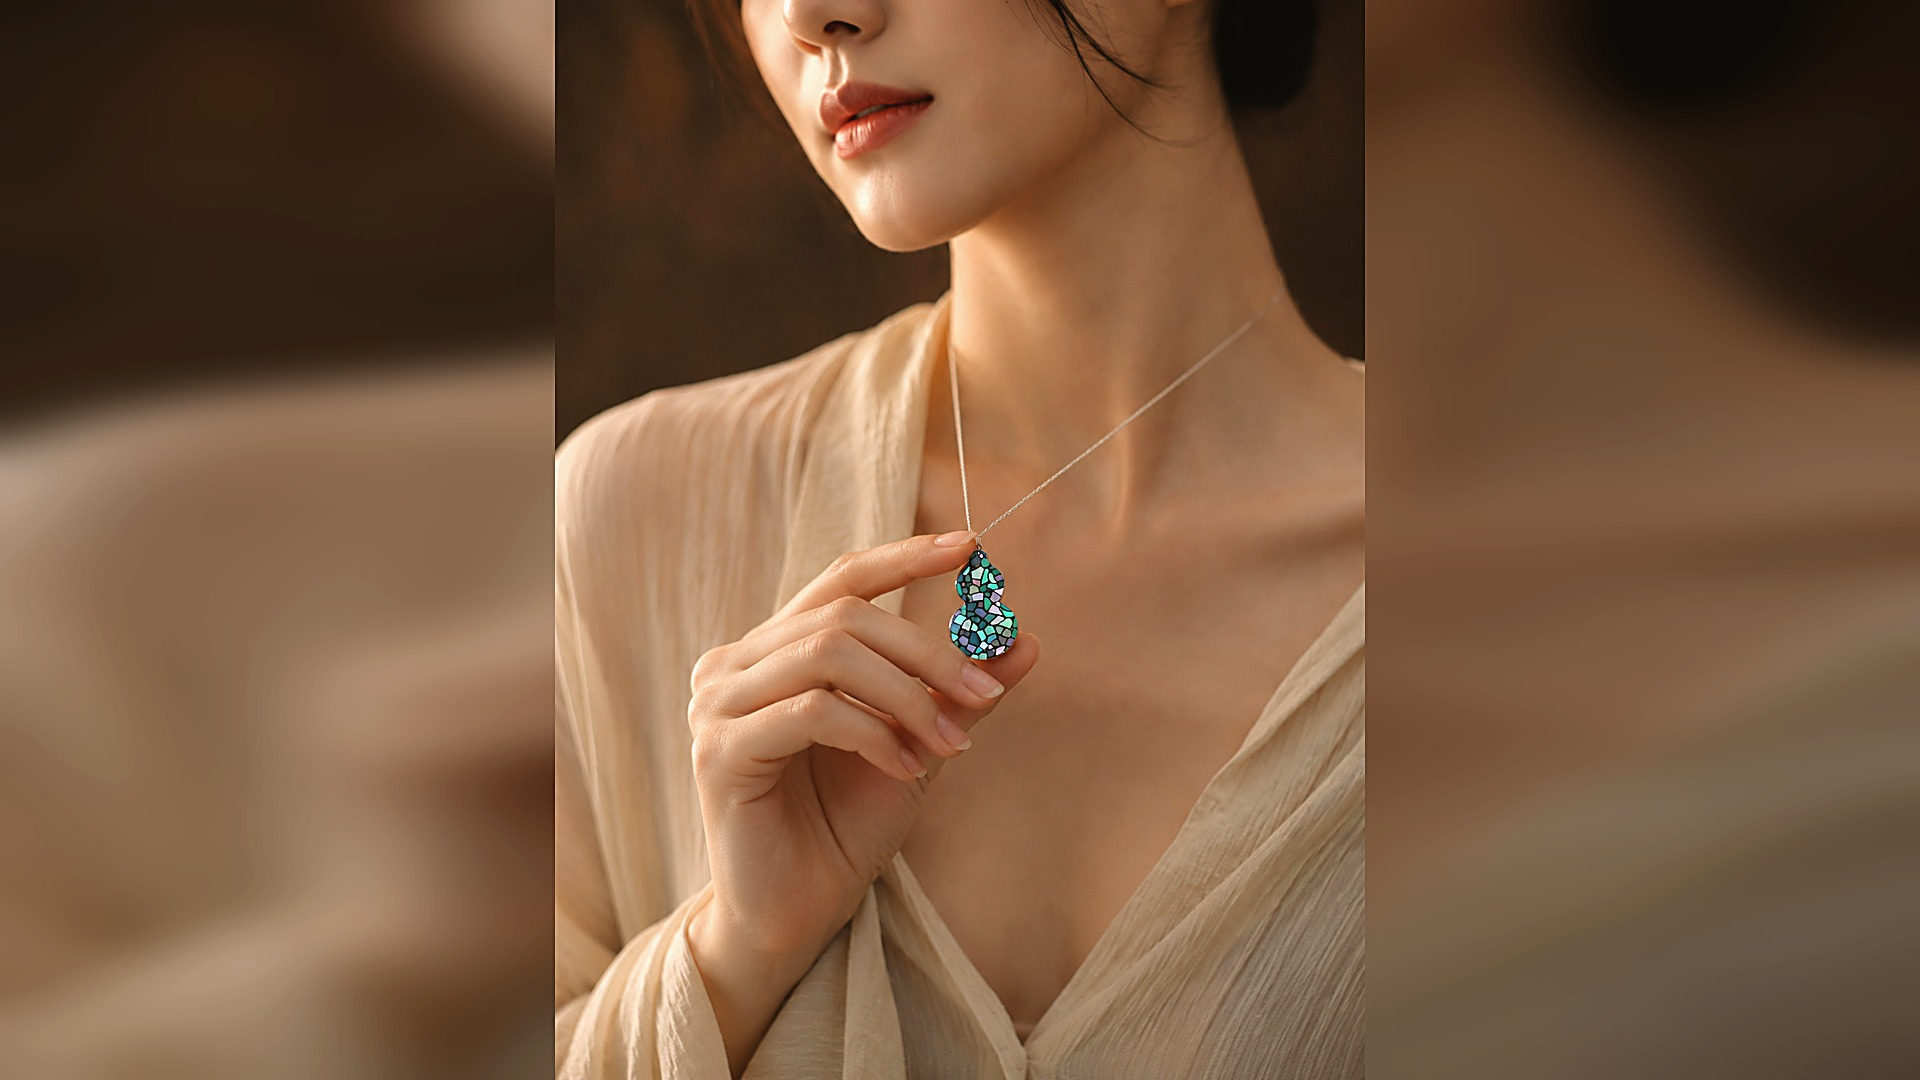
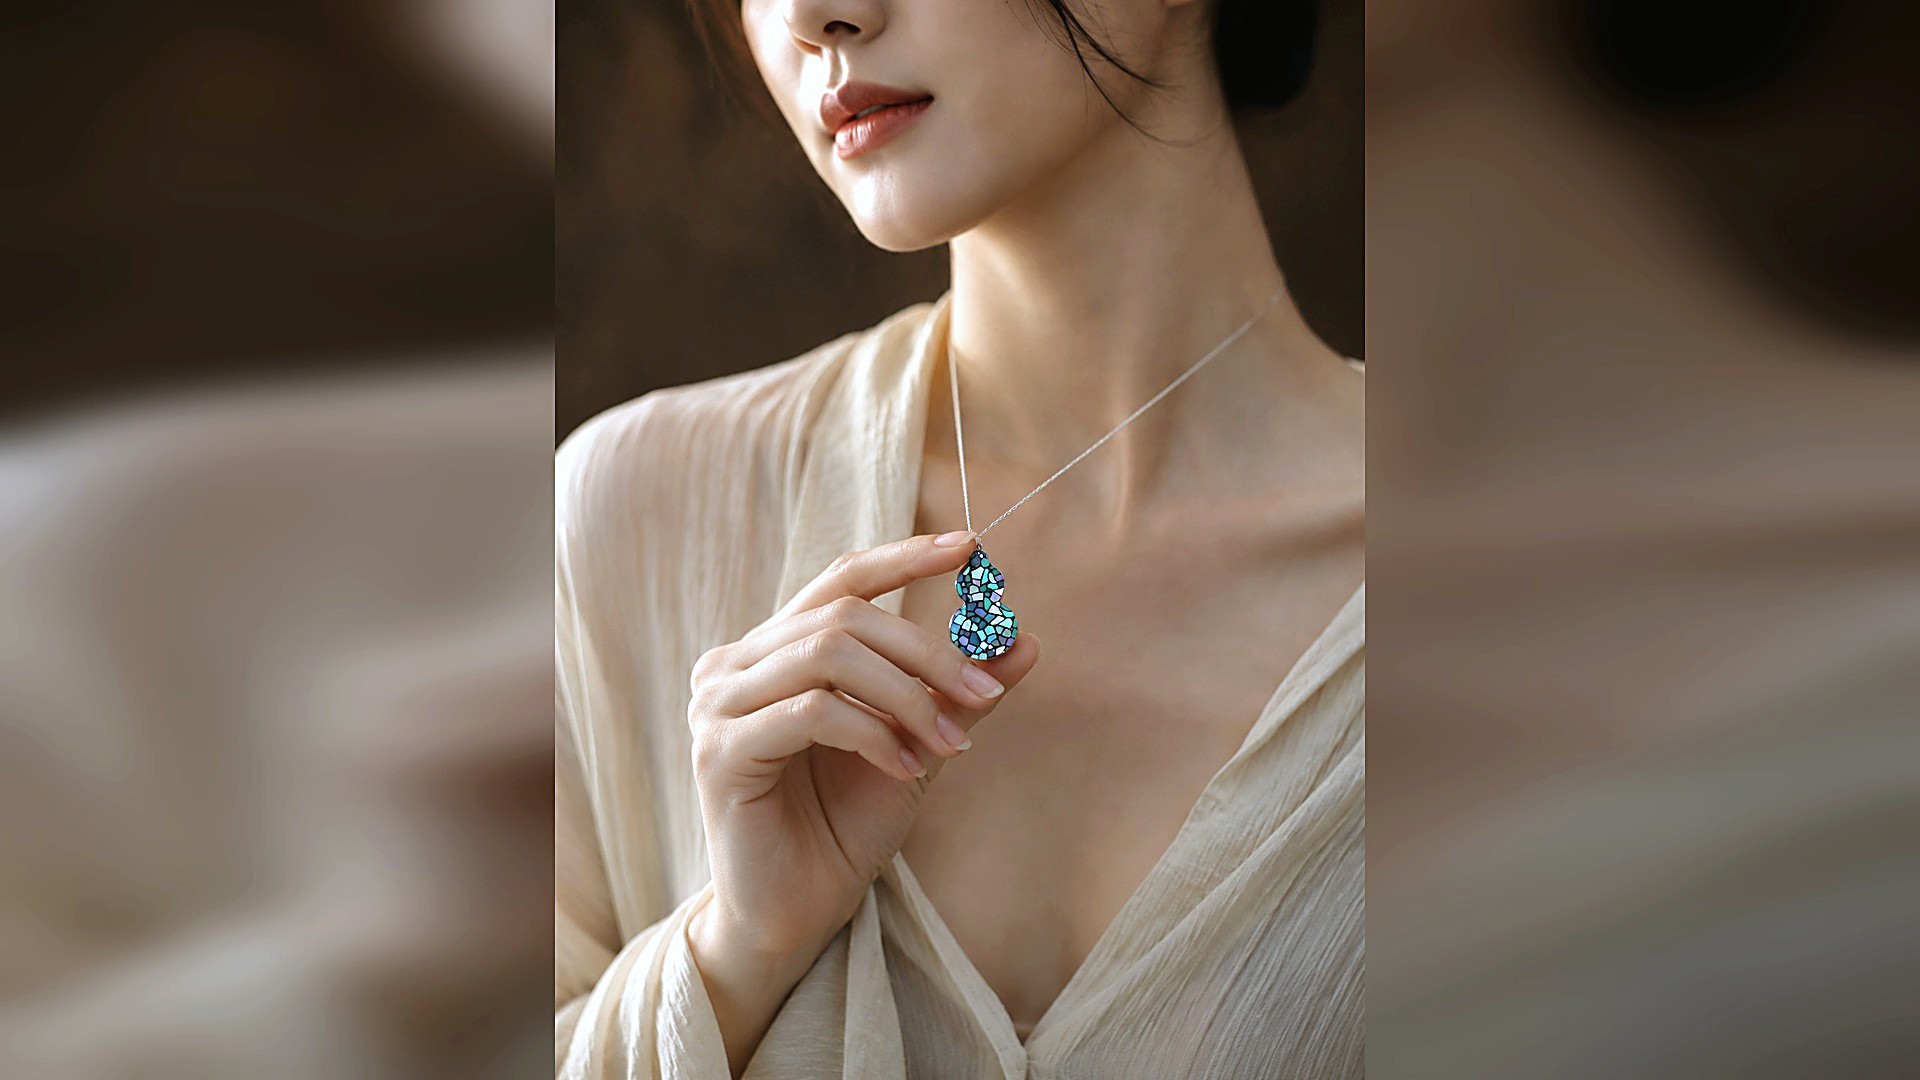
修复品牌轮播首图不显示、统一调色并删除品牌页商务合作板块；首页第一张与正大明第二张轮播互换

diff --git a/brand-zhengdaming.html b/brand-zhengdaming.html
@@ -157,11 +157,11 @@
     <!-- 大图轮播 -->
     <section id="home" class="hero brand-hero">
       <div class="hero-slides">
-        <div class="hero-slide" data-desc="精选秦巴山地原生漆，经脱水、过滤、调色，调制出可髹涂的温润漆液。">
+        <div class="hero-slide active" data-desc="精选秦巴山地原生漆，经脱水、过滤、调色，调制出可髹涂的温润漆液。">
           <img src="images/brands/zd-1.jpg" alt="精制生漆调制">
         </div>
-        <div class="hero-slide" data-desc="以天然大漆髹饰的茶席与茶器，将东方漆艺融入当代茶事空间。">
-          <img src="images/brands/zd-2.jpg" alt="大漆茶席">
+        <div class="hero-slide" data-desc="描金运笔、朱漆映金，一笔一划承古法而见匠心，东方器物美学由此入境。">
+          <img src="images/hero-new-1.jpg" alt="描金漆器">
         </div>
         <div class="hero-slide" data-desc="黑漆为底、百蝶翩跹，描金与螺钿交相辉映，呈现正大明器物之美。">
           <img src="images/brands/zd-3.jpg" alt="百蝶瓜棱漆瓶">
@@ -468,34 +468,6 @@
               <svg viewBox="0 0 24 24" fill="currentColor"><path d="M8 5v14l11-7z"/></svg>
             </button>
             <div class="video-caption">袁端姣纪录片 · 匠心传承</div>
-          </div>
-        </div>
-      </div>
-    </section>
-
-    <!-- 商务合作 -->
-    <section class="section section-dark" id="coop">
-      <div class="container">
-        <div class="section-header">
-          <span class="section-label">Business Cooperation</span>
-          <h2 class="section-title">商务合作</h2>
-          <p class="section-desc">与正大明一起，把东方器物的庄重送给最重要的时刻。</p>
-        </div>
-        <div class="coop-grid">
-          <div class="coop-card">
-            <h3>高端礼赠定制</h3>
-            <p>一器一档、落款刻字，政务接待与外事礼赠的庄重之选。</p>
-            <p style="margin-top:14px;"><a href="cooperation.html" class="link">了解合作 →</a></p>
-          </div>
-          <div class="coop-card">
-            <h3>品牌联名开发</h3>
-            <p>iF 设计奖团队操刀、非遗工艺背书，支持色号定制与联名款独家供应。</p>
-            <p style="margin-top:14px;"><a href="cooperation.html" class="link">了解合作 →</a></p>
-          </div>
-          <div class="coop-card">
-            <h3>渠道与经销</h3>
-            <p>正大明产品全渠道代理招募，共享大漆高端市场增长。</p>
-            <p style="margin-top:14px;"><a href="cooperation.html" class="link">了解合作 →</a></p>
           </div>
         </div>
       </div>

diff --git a/brand-longtou.html b/brand-longtou.html
@@ -157,7 +157,7 @@
     <!-- 大图轮播 -->
     <section id="home" class="hero brand-hero">
       <div class="hero-slides">
-        <div class="hero-slide" data-desc="袁辉志、袁端姣与团队在秦巴漆苗基地查看漆树生长，从源头把控国漆品质。">
+        <div class="hero-slide active" data-desc="袁辉志、袁端姣与团队在秦巴漆苗基地查看漆树生长，从源头把控国漆品质。">
           <img src="images/brands/lt-1.jpg" alt="漆苗种植基地">
         </div>
         <div class="hero-slide" data-desc="一桶桶原漆静待时光沉淀，龙头国漆以标准化仓储守护天然生漆的活性。">
@@ -298,34 +298,6 @@
               <svg viewBox="0 0 24 24" fill="currentColor"><path d="M8 5v14l11-7z"/></svg>
             </button>
             <div class="video-caption">《花季中国》第二季 · 花开花谢</div>
-          </div>
-        </div>
-      </div>
-    </section>
-
-    <!-- 商务合作 -->
-    <section class="section section-dark" id="coop">
-      <div class="container">
-        <div class="section-header">
-          <span class="section-label">Business Cooperation</span>
-          <h2 class="section-title">商务合作</h2>
-          <p class="section-desc">以秦岭漆林为源头，与产业伙伴共建大漆材料供应的确定性。</p>
-        </div>
-        <div class="coop-grid">
-          <div class="coop-card">
-            <h3>工程配套供货</h3>
-            <p>古建修缮地仗灰料与表面髹涂用漆配套，支持工程批量供货。</p>
-            <p style="margin-top:14px;"><a href="cooperation.html" class="link">了解合作 →</a></p>
-          </div>
-          <div class="coop-card">
-            <h3>工业应用选型</h3>
-            <p>面向汽车内饰、船舶、航天、军工的专业用漆选型与供货保障。</p>
-            <p style="margin-top:14px;"><a href="cooperation.html" class="link">了解合作 →</a></p>
-          </div>
-          <div class="coop-card">
-            <h3>科研教学合作</h3>
-            <p>生漆研究试样、教学用料批量供应，支持检测报告与规格定制。</p>
-            <p style="margin-top:14px;"><a href="cooperation.html" class="link">了解合作 →</a></p>
           </div>
         </div>
       </div>

diff --git a/brand-niuwang.html b/brand-niuwang.html
@@ -157,7 +157,7 @@
     <!-- 大图轮播 -->
     <section id="home" class="hero brand-hero">
       <div class="hero-slides">
-        <div class="hero-slide" data-desc="袁端姣打造的牛王国漆非遗博物馆，以红与黑书写千年髹漆技艺的传承。">
+        <div class="hero-slide active" data-desc="袁端姣打造的牛王国漆非遗博物馆，以红与黑书写千年髹漆技艺的传承。">
           <img src="images/brands/nw-1.jpg" alt="牛王国漆非遗博物馆">
         </div>
         <div class="hero-slide" data-desc="袁端姣创作《风华》《鹤唳华亭》等国漆作品，红与黑间尽显东方气韵。">
@@ -298,34 +298,6 @@
               <svg viewBox="0 0 24 24" fill="currentColor"><path d="M8 5v14l11-7z"/></svg>
             </button>
             <div class="video-caption">袁端姣纪录片 · 匠心传承</div>
-          </div>
-        </div>
-      </div>
-    </section>
-
-    <!-- 商务合作 -->
-    <section class="section section-dark" id="coop">
-      <div class="container">
-        <div class="section-header">
-          <span class="section-label">Business Cooperation</span>
-          <h2 class="section-title">商务合作</h2>
-          <p class="section-desc">与牛王国漆一起，让非遗走进更多人的视野与生活。</p>
-        </div>
-        <div class="coop-grid">
-          <div class="coop-card">
-            <h3>政务礼赠合作</h3>
-            <p>政务接待与外事礼赠定制，以大漆器物传递庄重礼仪。</p>
-            <p style="margin-top:14px;"><a href="cooperation.html" class="link">了解合作 →</a></p>
-          </div>
-          <div class="coop-card">
-            <h3>非遗研学合作</h3>
-            <p>面向院校、机构与文旅场景的研学课程与工坊共建。</p>
-            <p style="margin-top:14px;"><a href="cooperation.html" class="link">了解合作 →</a></p>
-          </div>
-          <div class="coop-card">
-            <h3>展馆与体验</h3>
-            <p>牛王生漆非遗展馆联建、割漆体验项目合作。</p>
-            <p style="margin-top:14px;"><a href="cooperation.html" class="link">了解合作 →</a></p>
           </div>
         </div>
       </div>

diff --git a/brand-suishiji.html b/brand-suishiji.html
@@ -157,7 +157,7 @@
     <!-- 大图轮播 -->
     <section id="home" class="hero brand-hero">
       <div class="hero-slides">
-        <div class="hero-slide" data-desc="大漆螺钿葫芦挂坠，以传统福禄意象演绎可佩戴的东方美学。">
+        <div class="hero-slide active" data-desc="大漆螺钿葫芦挂坠，以传统福禄意象演绎可佩戴的东方美学。">
           <img src="images/brands/ssj-1.jpg" alt="葫芦福禄挂坠">
         </div>
         <div class="hero-slide" data-desc="岁时记首饰礼盒与收藏证书，以清雅东方配色传递节气生活之美。">
@@ -297,34 +297,6 @@
               <svg viewBox="0 0 24 24" fill="currentColor"><path d="M8 5v14l11-7z"/></svg>
             </button>
             <div class="video-caption">央视《生财有道》专题报道</div>
-          </div>
-        </div>
-      </div>
-    </section>
-
-    <!-- 商务合作 -->
-    <section class="section section-dark" id="coop">
-      <div class="container">
-        <div class="section-header">
-          <span class="section-label">Business Cooperation</span>
-          <h2 class="section-title">商务合作</h2>
-          <p class="section-desc">与岁时记一起，把节气美学带给更多年轻人。</p>
-        </div>
-        <div class="coop-grid">
-          <div class="coop-card">
-            <h3>文创品牌联名</h3>
-            <p>节气主题联名开发，非遗工艺为品牌注入东方叙事。</p>
-            <p style="margin-top:14px;"><a href="cooperation.html" class="link">了解合作 →</a></p>
-          </div>
-          <div class="coop-card">
-            <h3>企业礼赠定制</h3>
-            <p>小批量起订，纹样、色号与包装全定制。</p>
-            <p style="margin-top:14px;"><a href="cooperation.html" class="link">了解合作 →</a></p>
-          </div>
-          <div class="coop-card">
-            <h3>渠道分销</h3>
-            <p>电商、商超文旅与国风门店的分销合作。</p>
-            <p style="margin-top:14px;"><a href="cooperation.html" class="link">了解合作 →</a></p>
           </div>
         </div>
       </div>

diff --git a/index.html b/index.html
@@ -157,8 +157,8 @@
     <!-- Hero Carousel -->
     <section id="home" class="hero">
       <div class="hero-slides">
-        <div class="hero-slide active" data-desc="描金运笔、朱漆映金，一笔一划承古法而见匠心，东方器物美学由此入境。">
-          <img src="images/hero-new-1.jpg" alt="描金漆器">
+        <div class="hero-slide active" data-desc="以天然大漆髹饰的茶席与茶器，将东方漆艺融入当代茶事空间。">
+          <img src="images/brands/zd-2.jpg" alt="大漆茶席">
         </div>
         <div class="hero-slide" data-desc="生漆正从漆树伤口缓缓淌下，漆酚含量高达七成——这是造就千年不腐东方之漆的自然馈赠。">
           <img src="images/hero-new-2.jpg" alt="生漆从漆树流下">

diff --git a/css/style.css b/css/style.css
@@ -1631,6 +1631,11 @@ a.brand-card {
 /* 品牌页 hero：略矮于首页，聚焦品牌 */
 .brand-hero { height: 78vh; min-height: 520px; max-height: 820px; }
 
+/* 品牌页轮播统一暖色调（增强一致性） */
+.brand-hero .hero-slide img {
+  filter: brightness(0.97) contrast(1.06) saturate(0.78) sepia(0.16) hue-rotate(-8deg);
+}
+
 /* 正大明：继承站点默认红金主题（庄重典雅） */
 
 /* 龙头国漆：墨绿山林主题（材料 · 产业） */
